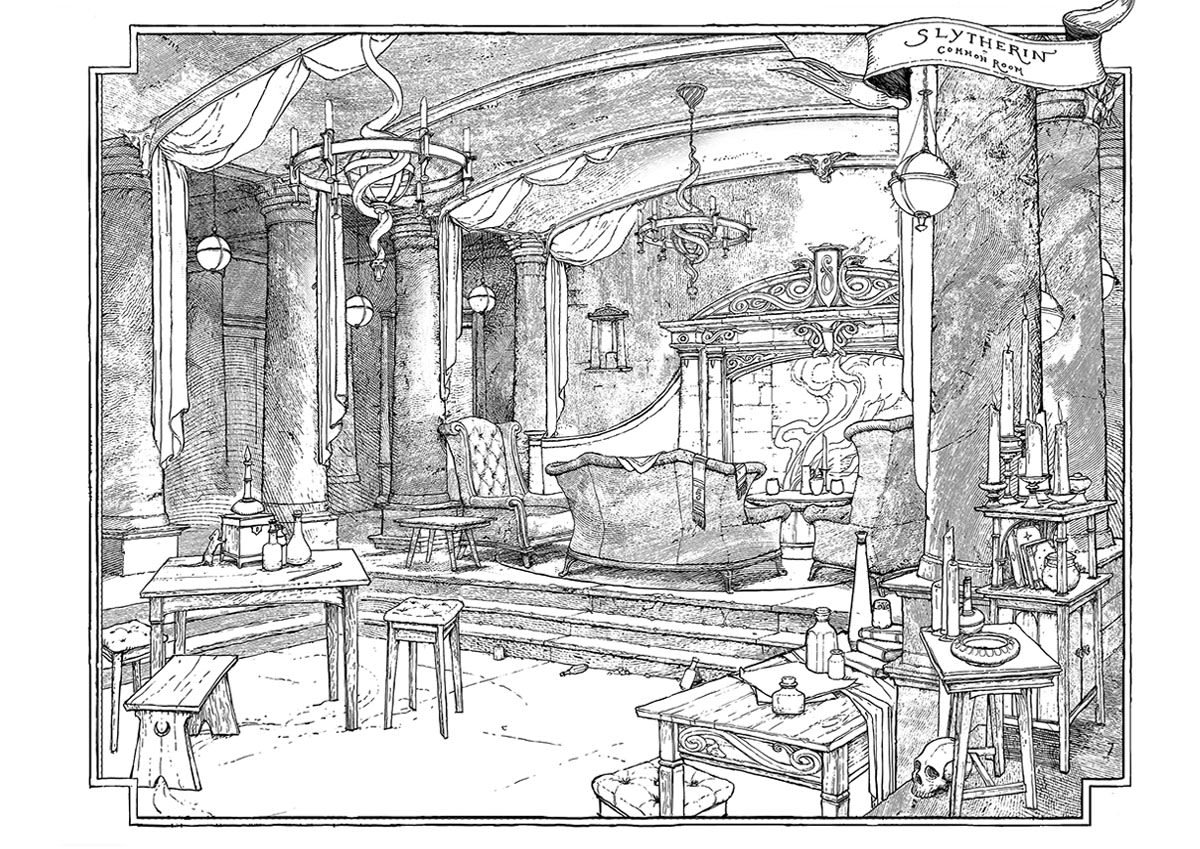
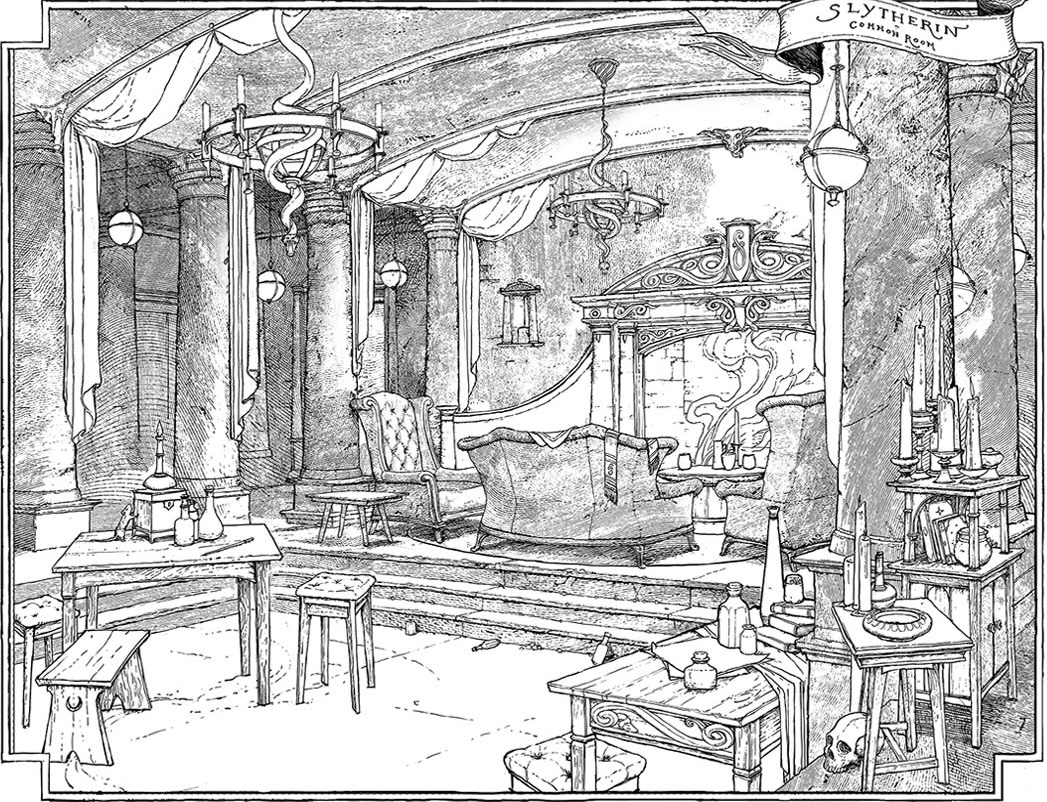
Update background image for the common room section

diff --git a/css/style.css b/css/style.css
@@ -536,7 +536,7 @@ code {
   position: relative;
   overflow: hidden;
 
-  background-image: url('../images/room-about.jpg');
+  background-image: url('../images/common_room.jpg');
   background-size: cover;
   background-position: center;
   background-repeat: no-repeat;
